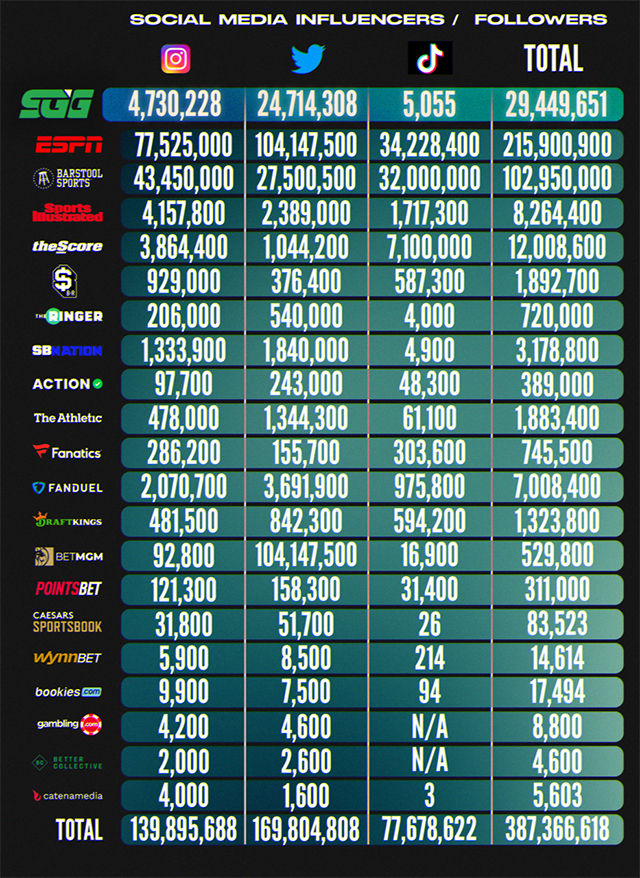
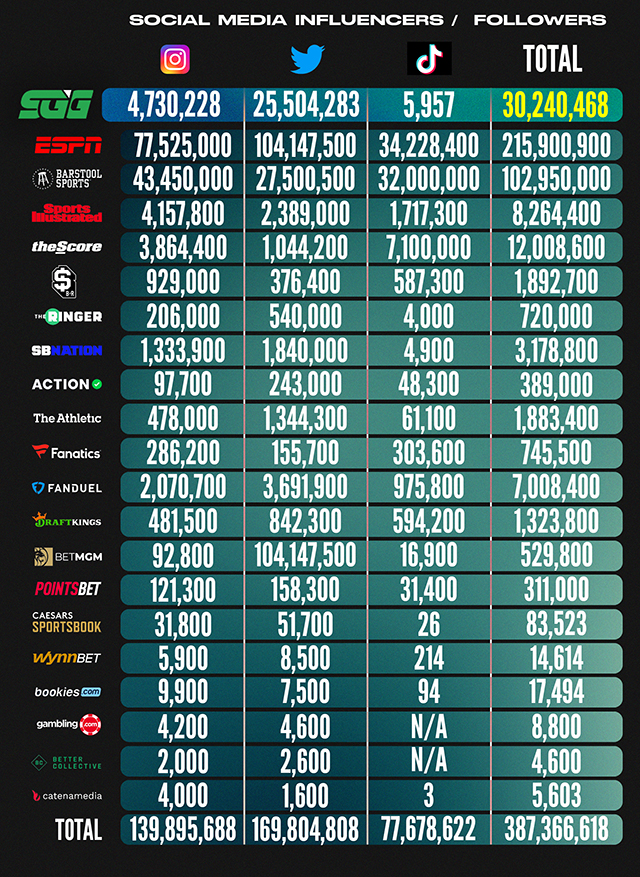
updates on followers and awards

Changed region(s): [[0.1875, 0.0, 0.9688, 0.9852], [0.0312, 0.0924, 0.1562, 0.9544], [0.9688, 0.4618, 1.0, 0.4926]]

diff --git a/views/pages/home.php b/views/pages/home.php
@@ -235,9 +235,9 @@
     <aside class="sbc-awards | uk-section uk-section-secondary">
         <div class="uk-container uk-text-center">
             
-            <h2>SGG Media Voted Finalists for "Sports Affiliate Of The Year" - 2022 SBC Global Awards</h2>
+            <h2>SGG Media Voted Finalists for "Sports Media Company of the Year" - 2023 SBC Global Awards</h2>
             <div class="uk-display-block uk-text-center uk-width-expand">
-                <img src="<?php echo _uri.'/resources/images/SBC-Awards-NA-trophy-logo-neg@4x-8-1.png'; ?>" width="240" alt="SBC Awards 2022">
+                <img src="<?php echo _uri.'/resources/images/north-america-awards-logo.png'; ?>" width="240" alt="SBC Awards 2023">
             </div>
 
         </div>
